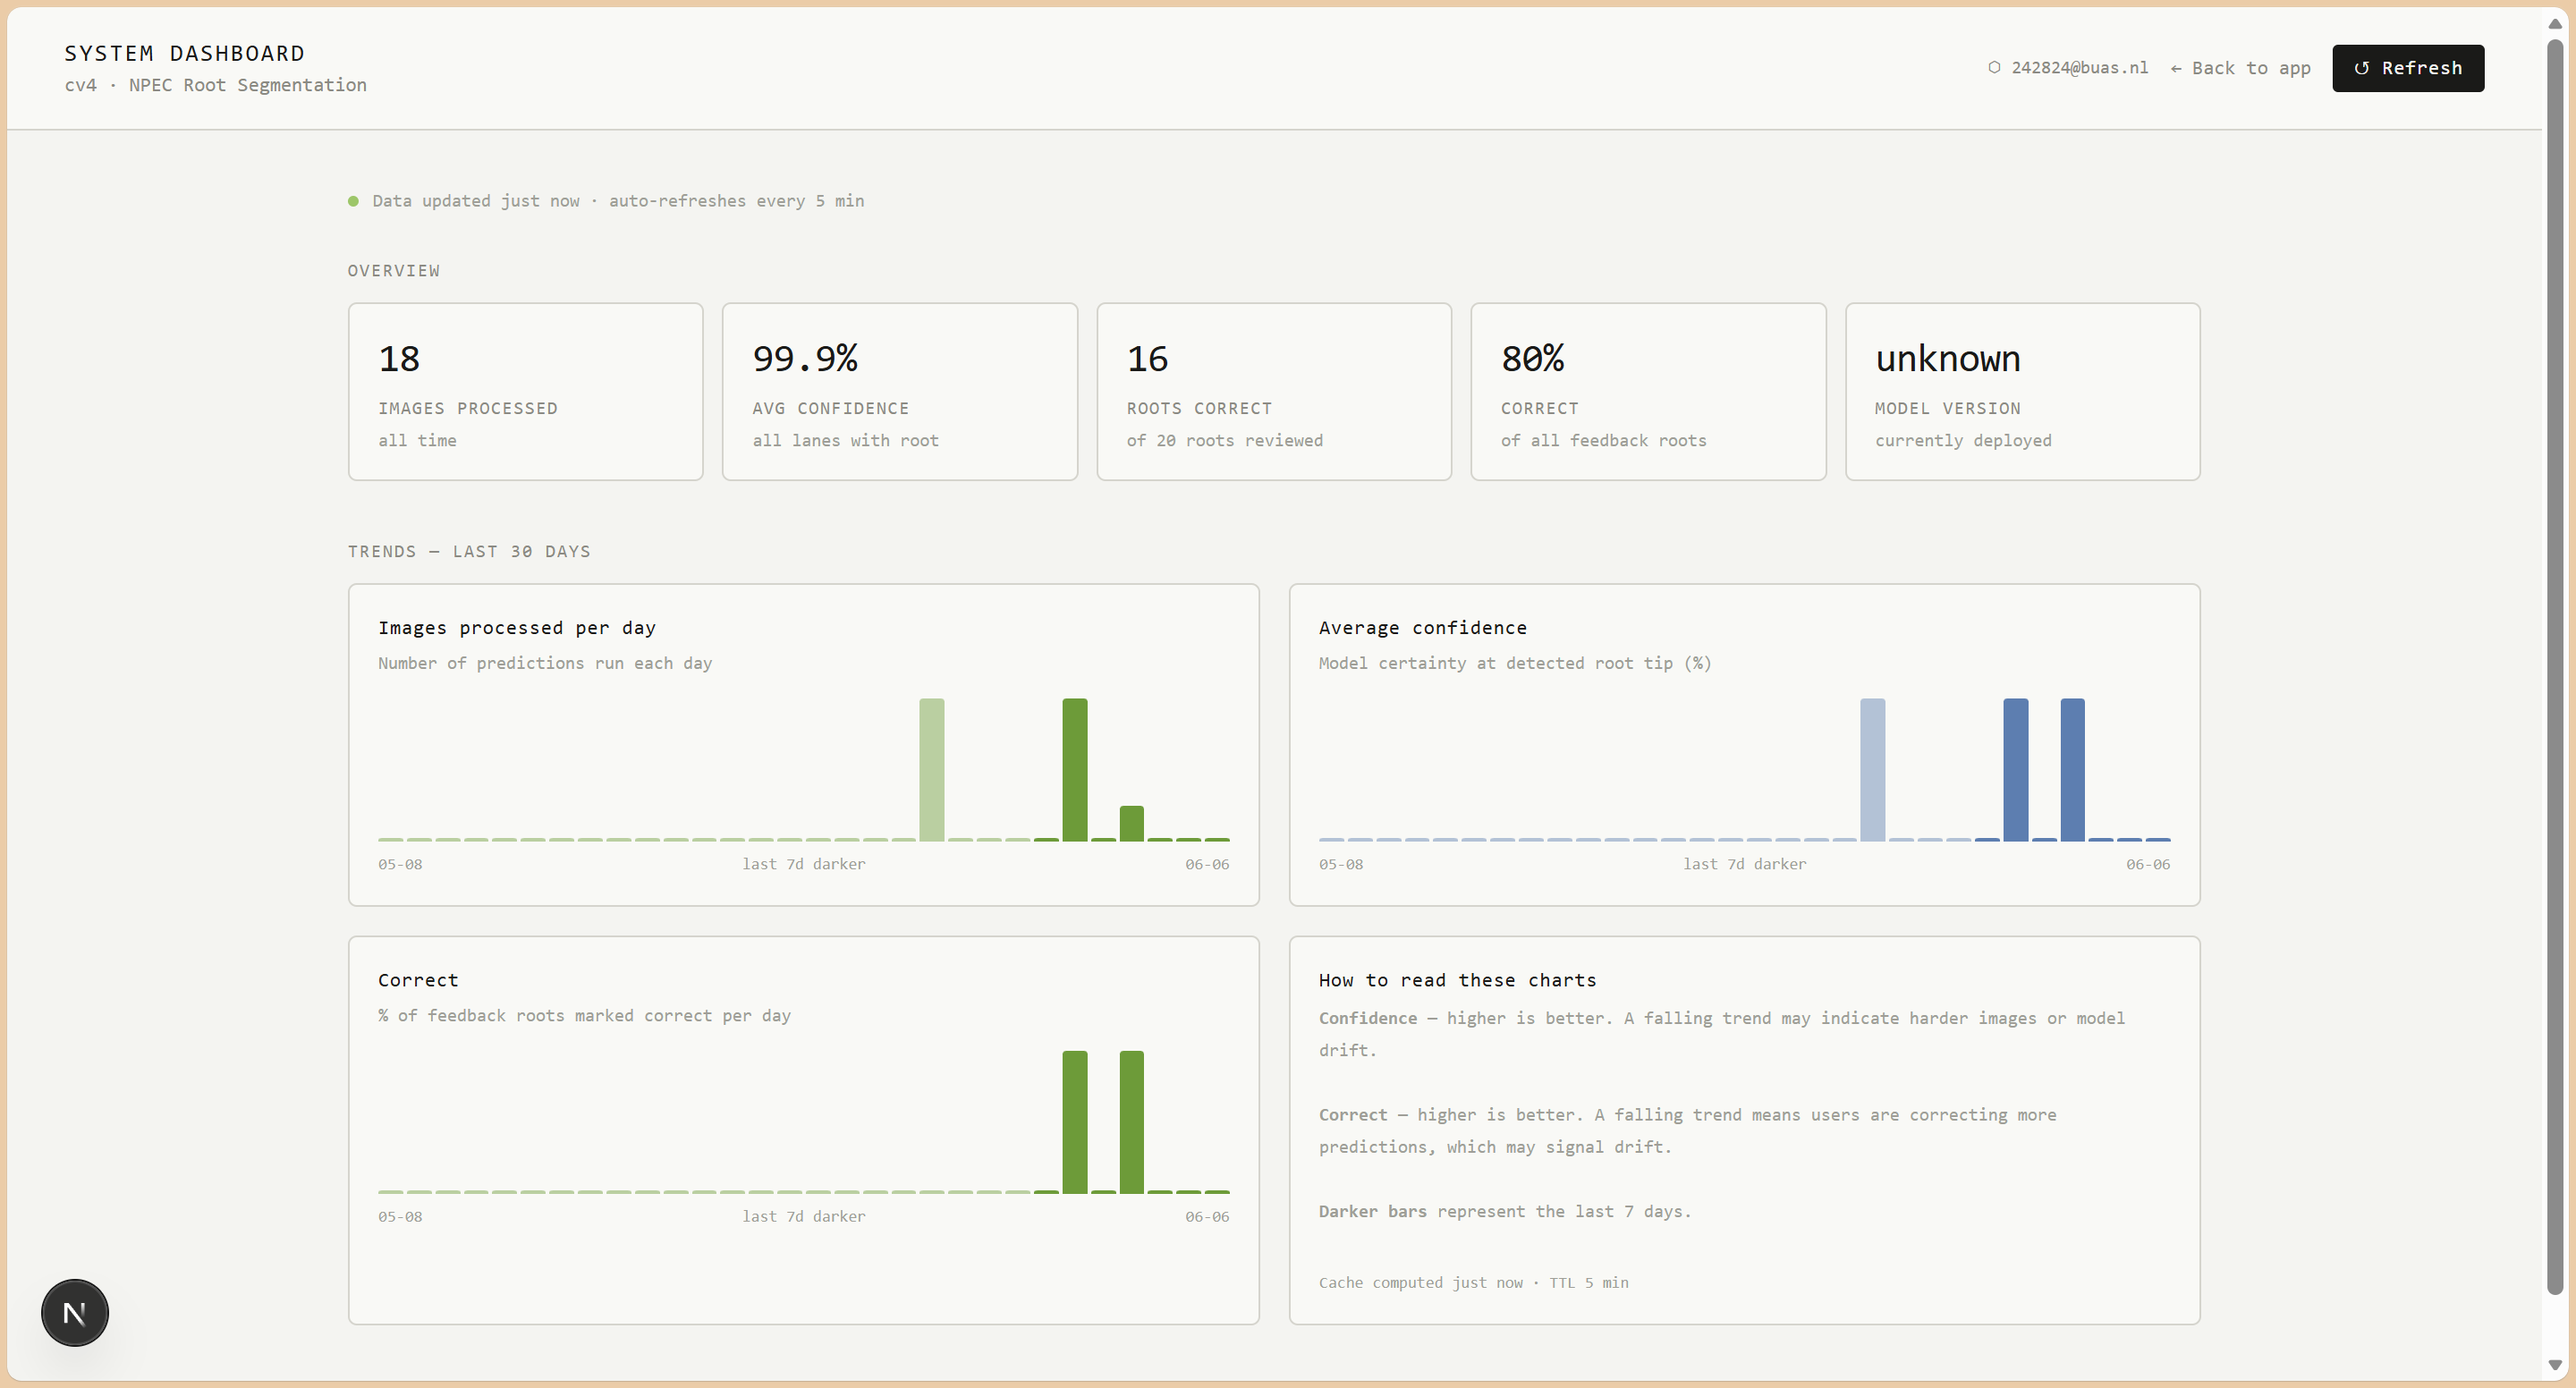
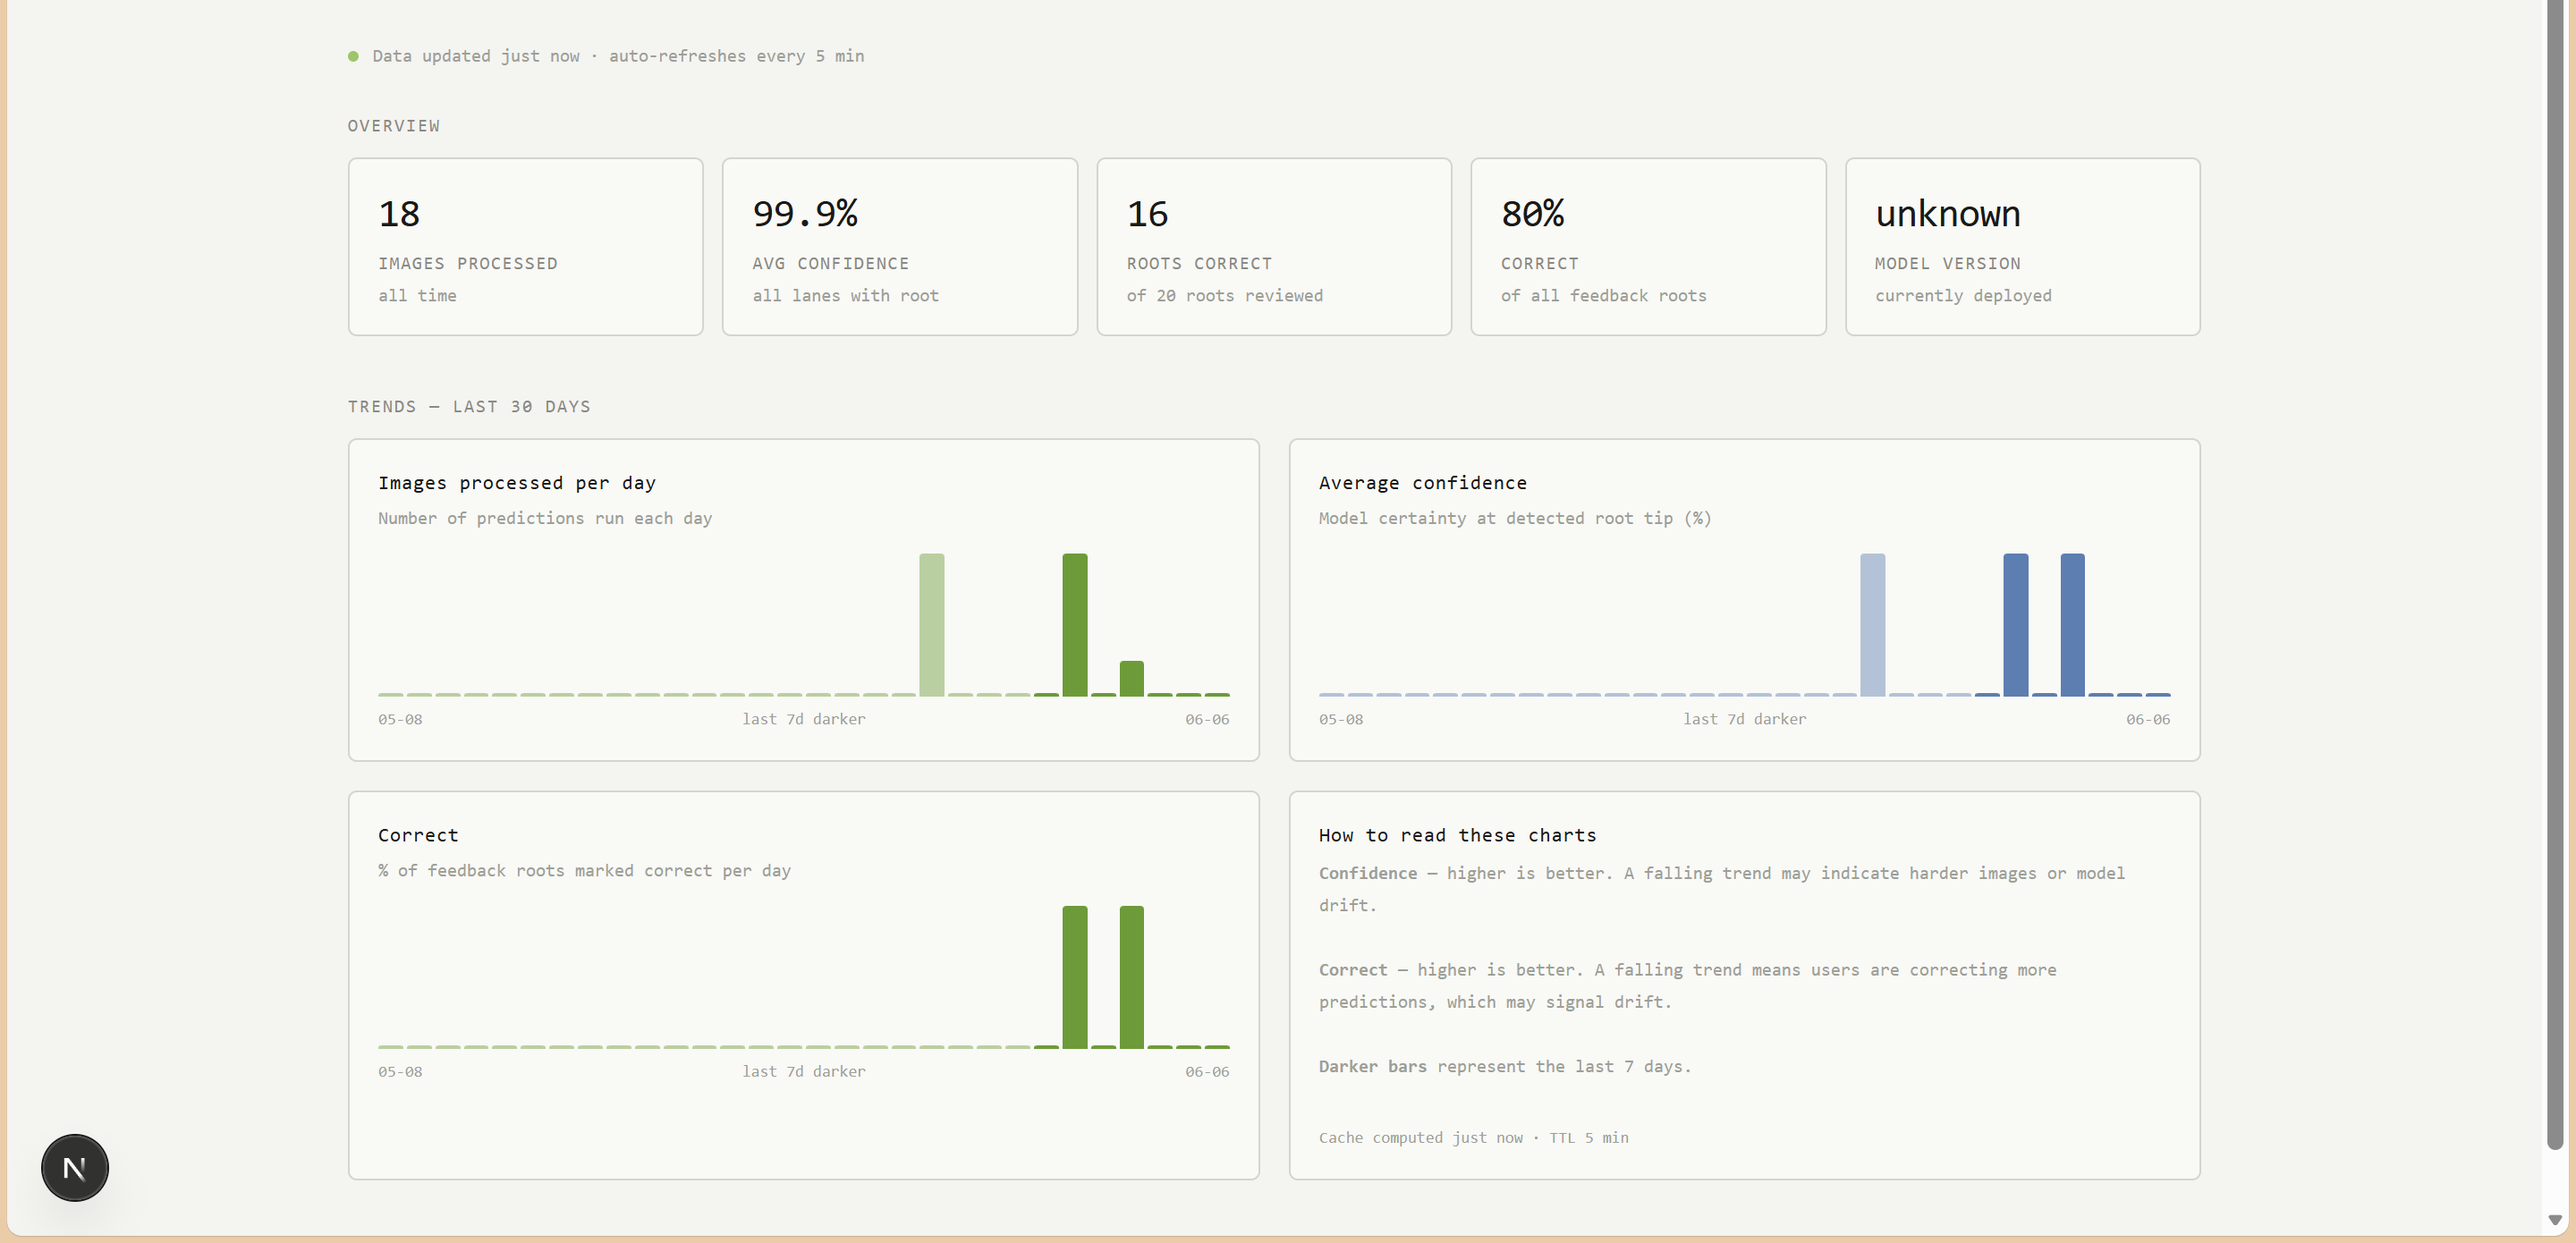
cv4 gallery: 6 images with explanations, readable diagrams; clearer stats

diff --git a/v2/index.html b/v2/index.html
@@ -12,8 +12,8 @@
   <link rel="preconnect" href="https://fonts.googleapis.com" />
   <link rel="preconnect" href="https://fonts.gstatic.com" crossorigin />
   <link href="https://fonts.googleapis.com/css2?family=Inter:wght@400;500;600&family=Inter+Tight:wght@200;300;400;500&display=swap" rel="stylesheet" />
-  <link rel="stylesheet" href="../css/style.css?v=202610131805" />
-  <link rel="stylesheet" href="css/theme.css?v=202610131805" />
+  <link rel="stylesheet" href="../css/style.css?v=202610281728" />
+  <link rel="stylesheet" href="css/theme.css?v=202610281728" />
 </head>
 <body>
   <header class="nav" id="nav">
@@ -89,10 +89,10 @@
     <section class="section">
       <div class="wrap">
         <div class="stats reveal">
-          <div class="stat"><b>5</b><span>End-to-end AI projects</span></div>
-          <div class="stat"><b>3</b><span>Real-world clients &amp; partners</span></div>
-          <div class="stat"><b>242</b><span>Automated tests in my latest production codebase</span></div>
-          <div class="stat"><b>0.97<small style="font-size:.45em">mm</small></b><span>Robot positioning precision</span></div>
+          <div class="stat"><b>5</b><span>End-to-end AI projects</span><small class="src">From data to deployed system</small></div>
+          <div class="stat"><b>3</b><span>Real-world clients &amp; partners</span><small class="src">NPEC · Stedelijk Museum Breda · a media-analytics client</small></div>
+          <div class="stat"><a href="project.html?id=cv4"><b>242</b><span>Automated tests that run on every code change</span><small class="src">cv4 production system for NPEC ↗</small></a></div>
+          <div class="stat"><a href="project.html?id=robotics"><b>0.97<small style="font-size:.45em">mm</small></b><span>Average robot error when placing the pipette on a root tip</span><small class="src">50 plants, 10-plate benchmark ↗</small></a></div>
         </div>
       </div>
     </section>
@@ -155,9 +155,9 @@
     </div>
   </footer>
 
-  <script src="../js/projects.js?v=202610131805"></script>
+  <script src="../js/projects.js?v=202610281728"></script>
   <script>window.ASSET_BASE = "../";</script>
-  <script src="../js/main.js?v=202610131805"></script>
-  <script src="js/aurora.js?v=202610131805"></script>
+  <script src="../js/main.js?v=202610281728"></script>
+  <script src="js/aurora.js?v=202610281728"></script>
 </body>
 </html>

diff --git a/js/projects.js b/js/projects.js
@@ -36,10 +36,18 @@ const PROJECTS = [
       "Set up the Sphinx documentation build and its deployment to GitHub Pages.",
     ],
     gallery: [
-      { src: "assets/cv4/inference_result.png", caption: "Dashboard: detected root tips per lane, with confidence scores" },
-      { src: "assets/cv4/inference_feedback.png", caption: "Human-in-the-loop feedback: researchers correct predictions" },
-      { src: "assets/cv4/deployment_pipeline.drawio.png", caption: "Deployment architecture" },
-      { src: "assets/cv4/model_training_pipeline.drawio.png", caption: "Model training pipeline on Azure ML" },
+      { src: "assets/cv4/inference_result.png", caption: "Inference result",
+        desc: "The researcher uploads a petri-dish image and gets the root tip of each of the 5 plants, with pixel coordinates and a confidence score per lane." },
+      { src: "assets/cv4/inference_feedback.png", caption: "Human-in-the-loop feedback",
+        desc: "Researchers mark each prediction as correct or fix it. The corrected masks are stored and feed the next retraining run." },
+      { src: "assets/cv4/dashboard.png", caption: "Monitoring dashboard", wide: true,
+        desc: "Live overview of images processed, average confidence and the share of predictions users marked correct, so model drift shows up early." },
+      { src: "assets/cv4/model_training_pipeline.drawio.png", caption: "Model training pipeline", tall: true,
+        desc: "Versioned data from Azure → augmentation → Residual Attention U-Net training with hyperparameter sweeps → evaluation and MLflow logging. A new model is only registered and deployed if its F1 beats the current one; monitoring triggers retraining." },
+      { src: "assets/cv4/deployment_pipeline.drawio.png", caption: "Deployment pipeline", tall: true,
+        desc: "Every push runs linting, 242 pytest tests and Docker builds. After human approval it deploys both on-premise (Portainer) and to Azure (Container Apps + ML endpoint), with monitoring on both." },
+      { src: "assets/cv4/data_pipeline.drawio.png", caption: "Data pipeline", tall: true,
+        desc: "Raw plant images and annotated masks are matched, cropped to the petri dish, padded and cut into patches, then stored as versioned data assets in Azure Blob Storage." },
     ],
     links: [
       { label: "View code on GitHub", url: `${GITHUB}/root-segmentation-cv4` },

diff --git a/index.html b/index.html
@@ -12,7 +12,7 @@
   <link rel="preconnect" href="https://fonts.googleapis.com" />
   <link rel="preconnect" href="https://fonts.gstatic.com" crossorigin />
   <link href="https://fonts.googleapis.com/css2?family=Inter:wght@400;500;600&family=Inter+Tight:wght@200;300;400;500&display=swap" rel="stylesheet" />
-  <link rel="stylesheet" href="css/style.css?v=202610131805" />
+  <link rel="stylesheet" href="css/style.css?v=202610281728" />
   <script>try { if (localStorage.getItem("theme") === "light") document.documentElement.dataset.theme = "light"; } catch (e) {}</script>
 </head>
 <body>
@@ -90,10 +90,10 @@
     <section class="section">
       <div class="wrap">
         <div class="stats reveal">
-          <div class="stat"><b>5</b><span>End-to-end AI projects</span></div>
-          <div class="stat"><b>3</b><span>Real-world clients &amp; partners</span></div>
-          <div class="stat"><b>242</b><span>Automated tests in my latest production codebase</span></div>
-          <div class="stat"><b>0.97<small style="font-size:.45em">mm</small></b><span>Robot positioning precision</span></div>
+          <div class="stat"><b>5</b><span>End-to-end AI projects</span><small class="src">From data to deployed system</small></div>
+          <div class="stat"><b>3</b><span>Real-world clients &amp; partners</span><small class="src">NPEC · Stedelijk Museum Breda · a media-analytics client</small></div>
+          <div class="stat"><a href="project.html?id=cv4"><b>242</b><span>Automated tests that run on every code change</span><small class="src">cv4 production system for NPEC ↗</small></a></div>
+          <div class="stat"><a href="project.html?id=robotics"><b>0.97<small style="font-size:.45em">mm</small></b><span>Average robot error when placing the pipette on a root tip</span><small class="src">50 plants, 10-plate benchmark ↗</small></a></div>
         </div>
       </div>
     </section>
@@ -156,8 +156,8 @@
     </div>
   </footer>
 
-  <script src="js/projects.js?v=202610131805"></script>
-  <script src="js/main.js?v=202610131805"></script>
-  <script src="js/smoke.js?v=202610131805"></script>
+  <script src="js/projects.js?v=202610281728"></script>
+  <script src="js/main.js?v=202610281728"></script>
+  <script src="js/smoke.js?v=202610281728"></script>
 </body>
 </html>

diff --git a/css/style.css b/css/style.css
@@ -382,3 +382,17 @@ html[data-theme="light"] .theme-toggle .sun { display: block; }
 html[data-theme="light"] .theme-toggle .moon { display: none; }
 /* Smooth colour fade while switching (added briefly by JS) */
 html.theme-fade, html.theme-fade * { transition: background-color 0.45s ease, color 0.45s ease, border-color 0.45s ease, filter 0.45s ease, opacity 0.45s ease !important; }
+
+/* Gallery: captions with a short explanation; tall diagrams get a portrait frame */
+.gallery figcaption b { display: block; color: var(--fg); font-weight: 500; font-size: 14px; }
+.gallery figcaption span { display: block; margin-top: 4px; font-size: 13px; line-height: 1.55; color: var(--muted); }
+.gallery figure.tall img { aspect-ratio: 3 / 4; padding: 14px; }
+.gallery:has(figure.tall) { grid-template-columns: repeat(6, 1fr); }
+.gallery:has(figure.tall) figure { grid-column: span 3; }
+.gallery:has(figure.tall) figure.tall { grid-column: span 2; }
+.gallery:has(figure.tall) figure.wide { grid-column: span 6; }
+.gallery figure.wide img { aspect-ratio: 16 / 7.7; }
+@media (max-width: 720px) { .gallery:has(figure.tall) { grid-template-columns: 1fr; } .gallery:has(figure.tall) figure, .gallery:has(figure.tall) figure.tall, .gallery:has(figure.tall) figure.wide { grid-column: auto; } }
+.stat a { color: inherit; display: block; }
+.stat a:hover span { color: var(--fg); }
+.stat small.src { display: block; margin-top: 6px; font-size: 11.5px; color: var(--faint); letter-spacing: .02em; }

diff --git a/js/main.js b/js/main.js
@@ -107,7 +107,7 @@ function renderProject() {
       <div class="cs-block reveal"><h2>My contribution</h2>${list(p.contribution)}</div>
       <div class="cs-block reveal"><h2>Tech stack</h2><div class="tags" style="padding:0">${p.stack.map((t) => `<span class="tag">${esc(t)}</span>`).join("")}</div></div>
       <div class="cs-block reveal" style="grid-template-columns:1fr"><h2>Gallery</h2>
-        <div class="gallery">${p.gallery.map((g) => `<figure><img src="${asset(g.src)}" alt="${esc(g.caption)}" loading="lazy" /><figcaption>${esc(g.caption)}</figcaption></figure>`).join("")}</div>
+        <div class="gallery">${p.gallery.map((g) => `<figure class="${g.tall ? "tall" : g.wide ? "wide" : ""}"><img src="${asset(g.src)}" alt="${esc(g.caption)}" loading="lazy" /><figcaption><b>${esc(g.caption)}</b>${g.desc ? `<span>${esc(g.desc)}</span>` : ""}</figcaption></figure>`).join("")}</div>
       </div>
       <div class="hero-actions reveal" style="justify-content:flex-start;margin-top:48px">${p.links.map((l, i) =>
         `<a class="btn ${i === 0 ? "btn-primary" : ""}" href="${l.url}" target="_blank" rel="noopener">${i === 0 ? ICON.github : ""}${esc(l.label)}${ICON.arrow}</a>`).join("")}</div>

diff --git a/v2/project.html b/v2/project.html
@@ -9,8 +9,8 @@
   <link rel="preconnect" href="https://fonts.googleapis.com" />
   <link rel="preconnect" href="https://fonts.gstatic.com" crossorigin />
   <link href="https://fonts.googleapis.com/css2?family=Inter:wght@400;500;600&family=Inter+Tight:wght@200;300;400;500&display=swap" rel="stylesheet" />
-  <link rel="stylesheet" href="../css/style.css?v=202610131805" />
-  <link rel="stylesheet" href="css/theme.css?v=202610131805" />
+  <link rel="stylesheet" href="../css/style.css?v=202610281728" />
+  <link rel="stylesheet" href="css/theme.css?v=202610281728" />
 </head>
 <body>
   <header class="nav" id="nav">
@@ -40,8 +40,8 @@
     </div>
   </footer>
 
-  <script src="../js/projects.js?v=202610131805"></script>
+  <script src="../js/projects.js?v=202610281728"></script>
   <script>window.ASSET_BASE = "../";</script>
-  <script src="../js/main.js?v=202610131805"></script>
+  <script src="../js/main.js?v=202610281728"></script>
 </body>
 </html>

diff --git a/project.html b/project.html
@@ -9,7 +9,7 @@
   <link rel="preconnect" href="https://fonts.googleapis.com" />
   <link rel="preconnect" href="https://fonts.gstatic.com" crossorigin />
   <link href="https://fonts.googleapis.com/css2?family=Inter:wght@400;500;600&family=Inter+Tight:wght@200;300;400;500&display=swap" rel="stylesheet" />
-  <link rel="stylesheet" href="css/style.css?v=202610131805" />
+  <link rel="stylesheet" href="css/style.css?v=202610281728" />
   <script>try { if (localStorage.getItem("theme") === "light") document.documentElement.dataset.theme = "light"; } catch (e) {}</script>
 </head>
 <body>
@@ -41,7 +41,7 @@
     </div>
   </footer>
 
-  <script src="js/projects.js?v=202610131805"></script>
-  <script src="js/main.js?v=202610131805"></script>
+  <script src="js/projects.js?v=202610281728"></script>
+  <script src="js/main.js?v=202610281728"></script>
 </body>
 </html>
